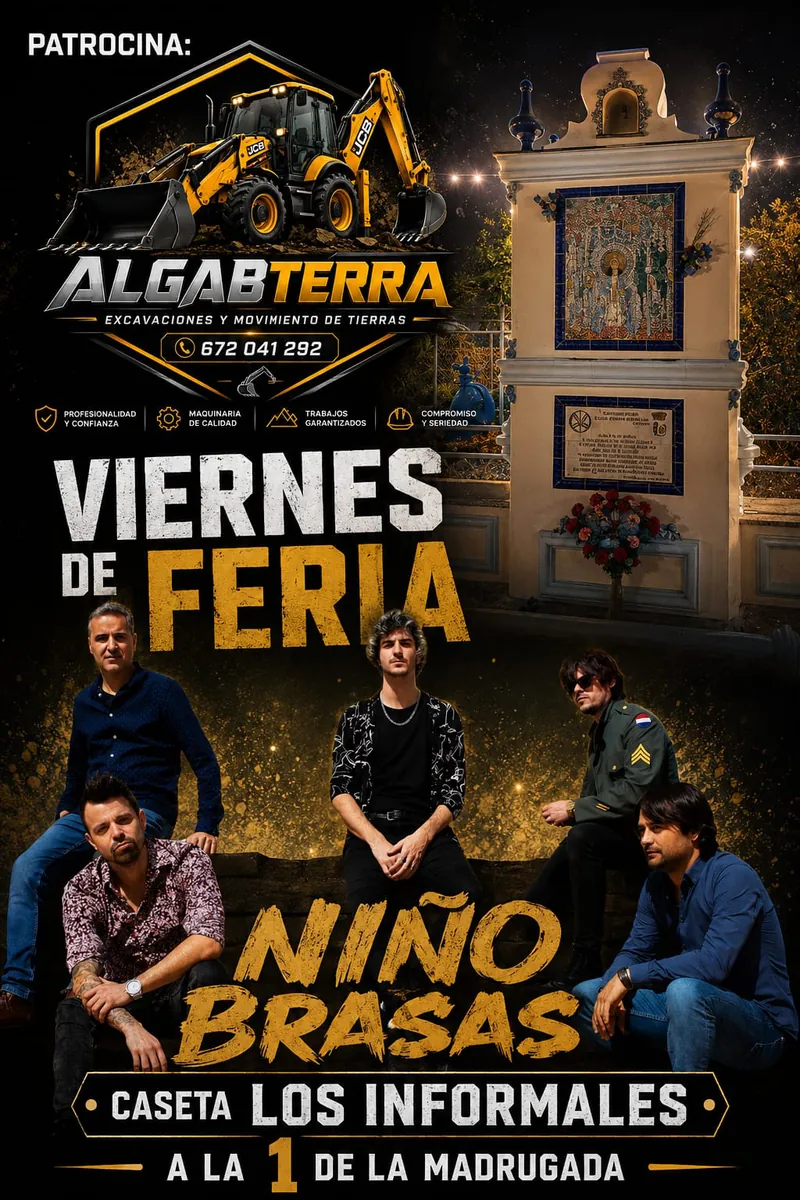
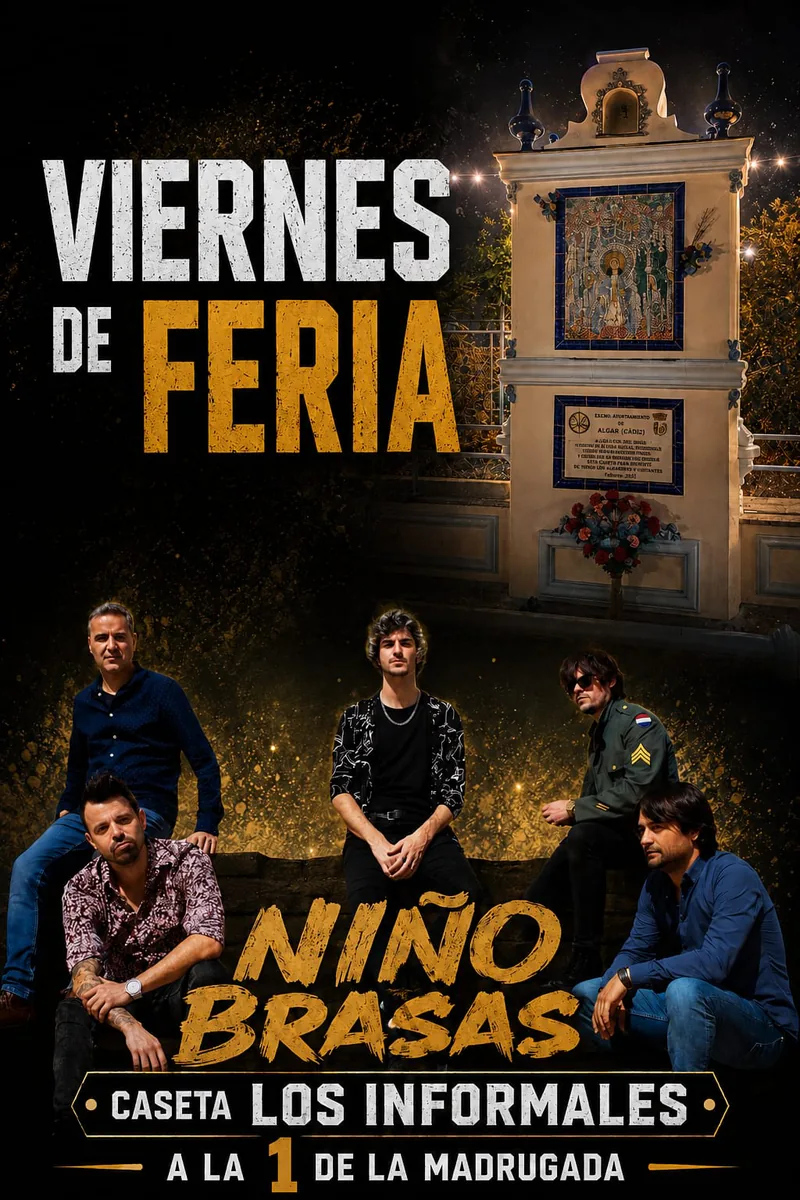
feat: sección Socios con la pulsera, comunicado y horas de la cena
- Nueva sección "Socios" (nav y tabbar): la pulsera como identificación
  que hay que llevar en todo momento, con foto de la pulsera de este
  año, más la cena del pescaíto cubierta con el dinero común y el 20 %
  de descuento solo con ticket.
- "Últimas noticias" pasa a ser "Comunicado" con los tres avisos de la
  junta: aviso previo para comprar tickets, sugerencias de carta y
  reparto del presupuesto.
- La cena del pescaíto muestra copa de bienvenida a las 22:00 y
  comienzo de la cena a las 22:30.
- Carteles nuevos de Niño Brasas y Las Zarzanas.
- Tres patrocinadores más: Andalucía Color, IF Fontanería y
  Majaralgaba. Ecosum se corrige a Secosum.

CSS ?v=41, caché SW a v41.

diff --git a/js/data.js b/js/data.js
@@ -24,35 +24,50 @@ const CASETA = {
   },
 };
 
-/* Noticias: la primera es la más reciente (sale destacada) */
+/* Sección Socios: lo que hay que saber siendo socio */
+const SOCIOS = {
+  destacado: {
+    titulo: "La pulsera es tu identificación",
+    texto:
+      "Llévala puesta en todo momento: es lo que te acredita como socio dentro de la caseta.",
+    imagen: "assets/pulsera.webp",
+    pie: "Así es la pulsera de este año, con el 5.º aniversario de la caseta.",
+  },
+  puntos: [
+    {
+      titulo: "Cena del pescaíto cubierta",
+      texto: "La cena del pescaíto de los socios se cubre con el dinero común.",
+    },
+    {
+      titulo: "20 % de descuento con ticket",
+      texto:
+        "El descuento se aplica solo pagando con ticket y queda reflejado en él. En efectivo pagas lo mismo que quien no es socio.",
+    },
+  ],
+};
+
+/* Comunicado de la junta */
 const NOTICIAS = [
   {
     fecha: "2026-08-07",
-    titulo: "El descuento de socio, siempre en ticket",
+    titulo: "Compra de tickets: avisa antes",
     texto:
-      "El 20 % de descuento de socio se aplica pagando con ticket y queda reflejado en él. Si pagas en efectivo, pagas lo mismo que quien no es socio.",
-    etiqueta: "Socios",
-  },
-  {
-    fecha: "2026-08-07",
-    titulo: "¿Necesitas más tickets?",
-    texto:
-      "Si quieres solicitar más tickets, ponte antes en contacto con alguno de los responsables de la caseta.",
-    etiqueta: "Socios",
+      "Si vas a necesitar más tickets, ponte en contacto con alguno de los responsables antes que nadie, para poder organizarlo con tiempo.",
+    etiqueta: "Tickets",
   },
   {
     fecha: "2026-08-07",
     titulo: "¿Ideas para la carta?",
     texto:
       "El catering está abierto a sugerencias de comidas y bebidas. Cuéntanos qué echas en falta y lo trasladamos.",
-    etiqueta: "Caseta",
+    etiqueta: "Carta",
   },
   {
     fecha: "2026-08-07",
-    titulo: "Las cuentas, claras: prioridades de este año",
+    titulo: "Así se reparte el presupuesto",
     texto:
-      "Este año, con un presupuesto más ajustado, la junta ha decidido dónde poner el dinero común: cubrir la cena del pescaíto de los socios, mantener el nivel y la cantidad de grupos en directo, hacer las mejoras necesarias en el escenario y estrenar decoración en el patio.",
-    etiqueta: "Socios",
+      "Este año, con un presupuesto más ajustado, el dinero común va a cubrir la cena del pescaíto de los socios, mantener el nivel y la cantidad de grupos en directo, hacer las mejoras necesarias en el escenario y estrenar decoración en el patio.",
+    etiqueta: "Cuentas",
   },
 ];
 
@@ -64,12 +79,15 @@ const PATROCINADORES = [
   { nombre: "Hoyo10", detalle: "Café bar & copas", logo: "assets/patrocinadores/hoyo10.webp" },
   { nombre: "Grup Algaba", detalle: "", logo: "assets/patrocinadores/grup-algaba.webp" },
   { nombre: "Grupo PR Palets", detalle: "", logo: "assets/patrocinadores/pr-palets.webp" },
-  { nombre: "Ecosum", detalle: "Seguridad, construcción y suministros", logo: "assets/patrocinadores/ecosum.webp" },
+  { nombre: "Secosum", detalle: "Seguridad, construcción y suministros", logo: "assets/patrocinadores/secosum.webp" },
   { nombre: "Podas Laura", detalle: "Poda y jardinería", logo: "assets/patrocinadores/podas-laura.webp" },
   { nombre: "Rufino", detalle: "", logo: "assets/patrocinadores/rufino.webp" },
   { nombre: "Velázquez Coca", detalle: "Climatización", logo: "assets/patrocinadores/velazquez-coca.webp" },
   { nombre: "SABORes", detalle: "", logo: "assets/patrocinadores/sabores.webp" },
   { nombre: "José A. Sevilla", detalle: "Construcciones y reformas", logo: "assets/patrocinadores/jose-sevilla.webp" },
+  { nombre: "Andalucía Color", detalle: "Pinturas · Avda. Andalucía 1, La Algaba", logo: "assets/patrocinadores/andalucia-color.webp" },
+  { nombre: "IF Fontanería", detalle: "Instalaciones de fontanería", logo: "assets/patrocinadores/if-fontaneria.webp" },
+  { nombre: "Majaralgaba", detalle: "Estaciones de servicio Repsol", logo: "assets/patrocinadores/majaralgaba.webp" },
 ];
 
 /* Programa: un bloque por día, con eventos ordenados por hora */
@@ -191,6 +209,10 @@ const MENU = {
   pescaito: {
     titulo: "Cena del pescaíto · miércoles 16",
     precio: "30 € por persona",
+    horario: [
+      { hora: "22:00", texto: "Copa de bienvenida" },
+      { hora: "22:30", texto: "Comienza la cena" },
+    ],
     infantil: "Menú infantil (hasta 12 años): lagrimitas, croquetas y hamburguesa con patatas + postre + bebida ilimitada — 15 €",
     bloques: [
       { titulo: "Para empezar", items: ["Almendras fritas"] },

diff --git a/css/styles.css b/css/styles.css
@@ -382,6 +382,119 @@ body {
 
 .news-date { font-size: 0.8rem; color: var(--celeste-hondo); font-weight: 700; margin-top: auto; }
 
+/* ---------- Socios ---------- */
+
+.socio-destacado {
+  display: flex;
+  flex-direction: column;
+  gap: 1.1rem;
+  background: var(--card);
+  border: 1.5px solid var(--flamenco);
+  border-radius: var(--radio);
+  box-shadow: var(--sombra);
+  padding: 1.3rem 1.4rem;
+  margin-top: 1.2rem;
+}
+
+.socio-pulsera {
+  flex-shrink: 0;
+  display: flex;
+  align-items: center;
+  justify-content: center;
+  width: 62px;
+  height: 62px;
+  border-radius: 50%;
+  background: var(--flamenco-suave);
+}
+.socio-pulsera svg {
+  width: 38px;
+  height: 38px;
+  stroke: #d0538a;
+  fill: none;
+  stroke-width: 2.4;
+  stroke-linecap: round;
+  stroke-linejoin: round;
+}
+
+.socio-texto {
+  display: flex;
+  align-items: center;
+  gap: 1.1rem;
+}
+
+.socio-foto { margin: 0; }
+.socio-foto img {
+  display: block;
+  width: 100%;
+  border-radius: 10px;
+  border: var(--borde);
+}
+.socio-foto figcaption {
+  margin-top: 0.5rem;
+  font-size: 0.82rem;
+  color: var(--tinta-suave);
+  text-align: center;
+}
+
+.socio-destacado h3 {
+  margin: 0 0 0.25rem;
+  font-family: var(--fuente-display);
+  font-weight: 400;
+  font-size: 1.15rem;
+  color: #c94b7c;
+}
+.socio-destacado p { margin: 0; color: var(--tinta); font-size: 0.95rem; }
+
+.socio-grid {
+  display: grid;
+  gap: 1rem;
+  grid-template-columns: repeat(auto-fit, minmax(260px, 1fr));
+  margin-top: 1rem;
+}
+
+.socio-card {
+  background: var(--card);
+  border: var(--borde);
+  border-radius: var(--radio);
+  box-shadow: var(--sombra);
+  padding: 1.2rem 1.3rem;
+}
+.socio-card h3 {
+  margin: 0 0 0.4rem;
+  font-size: 1.02rem;
+  font-weight: 800;
+  color: var(--celeste-hondo);
+}
+.socio-card p { margin: 0; color: var(--tinta-suave); font-size: 0.93rem; }
+
+@media (max-width: 480px) {
+  .socio-destacado { padding: 1.1rem; gap: 0.9rem; }
+  .socio-texto { gap: 0.85rem; }
+  .socio-pulsera { width: 52px; height: 52px; }
+  .socio-pulsera svg { width: 32px; height: 32px; }
+  .socio-texto {
+  display: flex;
+  align-items: center;
+  gap: 1.1rem;
+}
+
+.socio-foto { margin: 0; }
+.socio-foto img {
+  display: block;
+  width: 100%;
+  border-radius: 10px;
+  border: var(--borde);
+}
+.socio-foto figcaption {
+  margin-top: 0.5rem;
+  font-size: 0.82rem;
+  color: var(--tinta-suave);
+  text-align: center;
+}
+
+.socio-destacado h3 { font-size: 1.05rem; }
+}
+
 /* ---------- Programa ---------- */
 
 .day-tabs {
@@ -619,6 +732,29 @@ body {
   color: var(--albero);
   font-size: 1.05rem;
   white-space: nowrap;
+}
+
+.pescaito-horario {
+  display: flex;
+  flex-wrap: wrap;
+  gap: 0.5rem;
+  margin: 0 0 1.1rem;
+}
+
+.pescaito-hito {
+  display: inline-flex;
+  align-items: baseline;
+  gap: 0.4rem;
+  background: var(--albero-suave);
+  border-radius: 999px;
+  padding: 0.32rem 0.85rem;
+  font-size: 0.88rem;
+  color: var(--tinta);
+}
+.pescaito-hito b {
+  font-weight: 800;
+  color: #b9791d;
+  font-variant-numeric: tabular-nums;
 }
 
 .pescaito-bloques {

diff --git a/index.html b/index.html
@@ -20,7 +20,7 @@
   <link rel="preconnect" href="https://fonts.gstatic.com" crossorigin />
   <link href="https://fonts.googleapis.com/css2?family=Titan+One&family=Karla:ital,wght@0,400;0,600;0,700;0,800;1,400&display=swap" rel="stylesheet" />
 
-  <link rel="stylesheet" href="css/styles.css?v=38" />
+  <link rel="stylesheet" href="css/styles.css?v=41" />
 </head>
 <body>
 
@@ -67,7 +67,8 @@
         <span class="nav-dot" aria-hidden="true"></span>Los Informales
       </a>
       <div class="nav-links">
-        <a href="#noticias">Noticias</a>
+        <a href="#socios">Socios</a>
+        <a href="#noticias">Comunicado</a>
         <a href="#programa">Programa</a>
         <a href="#menu">Menú</a>
       </div>
@@ -164,10 +165,19 @@
       </div>
     </section>
 
-    <!-- Noticias -->
+    <!-- Socios -->
+    <section class="section reveal" id="socios">
+      <p class="eyebrow">Si eres de la casa</p>
+      <h2 class="section-title">Socios</h2>
+      <p class="section-sub">Lo que conviene tener claro antes de la feria.</p>
+      <div class="socio-destacado" id="socioDestacado"></div>
+      <div class="socio-grid" id="socioGrid"></div>
+    </section>
+
+    <!-- Comunicado -->
     <section class="section reveal" id="noticias">
-      <p class="eyebrow">La caseta informa</p>
-      <h2 class="section-title">Últimas noticias</h2>
+      <p class="eyebrow">La junta informa</p>
+      <h2 class="section-title">Comunicado</h2>
       <div class="news-grid" id="newsGrid"></div>
     </section>
 
@@ -214,9 +224,13 @@
       <svg class="tabbar-icon" viewBox="0 0 24 24" aria-hidden="true"><path d="M4 11 L12 4 L20 11 M6 10 V19 H18 V10 M10 19 V14 H14 V19"/></svg>
       <span class="tabbar-label">Inicio</span>
     </a>
+    <a href="#socios" class="tabbar-item" data-sec="socios">
+      <svg class="tabbar-icon" viewBox="0 0 24 24" aria-hidden="true"><path d="M3.5 9.5 A8.5 8.5 0 0 1 20.5 9.5 M3.5 14.5 A8.5 8.5 0 0 0 20.5 14.5 M3.2 9.5 h17.6 v5 H3.2 Z"/></svg>
+      <span class="tabbar-label">Socios</span>
+    </a>
     <a href="#noticias" class="tabbar-item" data-sec="noticias">
       <svg class="tabbar-icon" viewBox="0 0 24 24" aria-hidden="true"><path d="M4 10 V14 H7 L14 18 V6 L7 10 Z M17 9 A4.5 4.5 0 0 1 17 15 M19.5 6.5 A8 8 0 0 1 19.5 17.5"/></svg>
-      <span class="tabbar-label">Noticias</span>
+      <span class="tabbar-label">Aviso</span>
     </a>
     <a href="#programa" class="tabbar-item" data-sec="programa">
       <svg class="tabbar-icon" viewBox="0 0 24 24" aria-hidden="true"><path d="M9 18 V6 L19 4 V16 M9 18 A2.5 2.5 0 1 1 4 18 A2.5 2.5 0 1 1 9 18 M19 16 A2.5 2.5 0 1 1 14 16 A2.5 2.5 0 1 1 19 16 M9 9 L19 7"/></svg>

diff --git a/js/app.js b/js/app.js
@@ -75,6 +75,34 @@ function pintarNoticias() {
   ).join("");
 }
 
+/* ---------- Socios ---------- */
+
+function pintarSocios() {
+  if (typeof SOCIOS === "undefined") {
+    document.querySelector("#socios").hidden = true;
+    return;
+  }
+  const d = SOCIOS.destacado;
+  $("#socioDestacado").innerHTML = `
+    <div class="socio-texto">
+      <span class="socio-pulsera" aria-hidden="true">
+        <svg viewBox="0 0 64 40"><path d="M8 20 a24 12 0 0 1 48 0 a24 12 0 0 1 -48 0 Z"/><rect x="24" y="12" width="16" height="16" rx="4"/><path d="M28 20 l3 3 l6 -6"/></svg>
+      </span>
+      <div>
+        <h3>${d.titulo}</h3>
+        <p>${d.texto}</p>
+      </div>
+    </div>
+    ${d.imagen ? `<figure class="socio-foto">
+      <img src="${d.imagen}" alt="Pulsera de socio de la caseta Los Informales 2026" loading="lazy" />
+      ${d.pie ? `<figcaption>${d.pie}</figcaption>` : ""}
+    </figure>` : ""}`;
+
+  $("#socioGrid").innerHTML = SOCIOS.puntos
+    .map((p) => `<article class="socio-card"><h3>${p.titulo}</h3><p>${p.texto}</p></article>`)
+    .join("");
+}
+
 /* ---------- Programa ---------- */
 
 function pintarPrograma() {
@@ -164,11 +192,17 @@ function pintarMenu() {
   }
 
   const p = MENU.pescaito;
+  const horario = (p.horario || [])
+    .map(
+      (h) => `<span class="pescaito-hito"><b>${h.hora}</b> ${h.texto}</span>`
+    )
+    .join("");
   card.innerHTML = `
     <div class="pescaito-head">
       <h3>${p.titulo}</h3>
       <span class="pescaito-precio">${p.precio}</span>
     </div>
+    ${horario ? `<div class="pescaito-horario">${horario}</div>` : ""}
     <div class="pescaito-bloques">
       ${p.bloques
         .map(
@@ -407,6 +441,7 @@ if ("serviceWorker" in navigator) {
 
 iniciarCuentaAtras();
 pintarNoticias();
+pintarSocios();
 pintarPrograma();
 pintarMenu();
 pintarPatrocinadores();

diff --git a/sw.js b/sw.js
@@ -1,6 +1,6 @@
 /* Service worker — cache básico para funcionar sin conexión */
 
-const CACHE = "informales-v38";
+const CACHE = "informales-v41";
 
 const PRECACHE = [
   "./",
